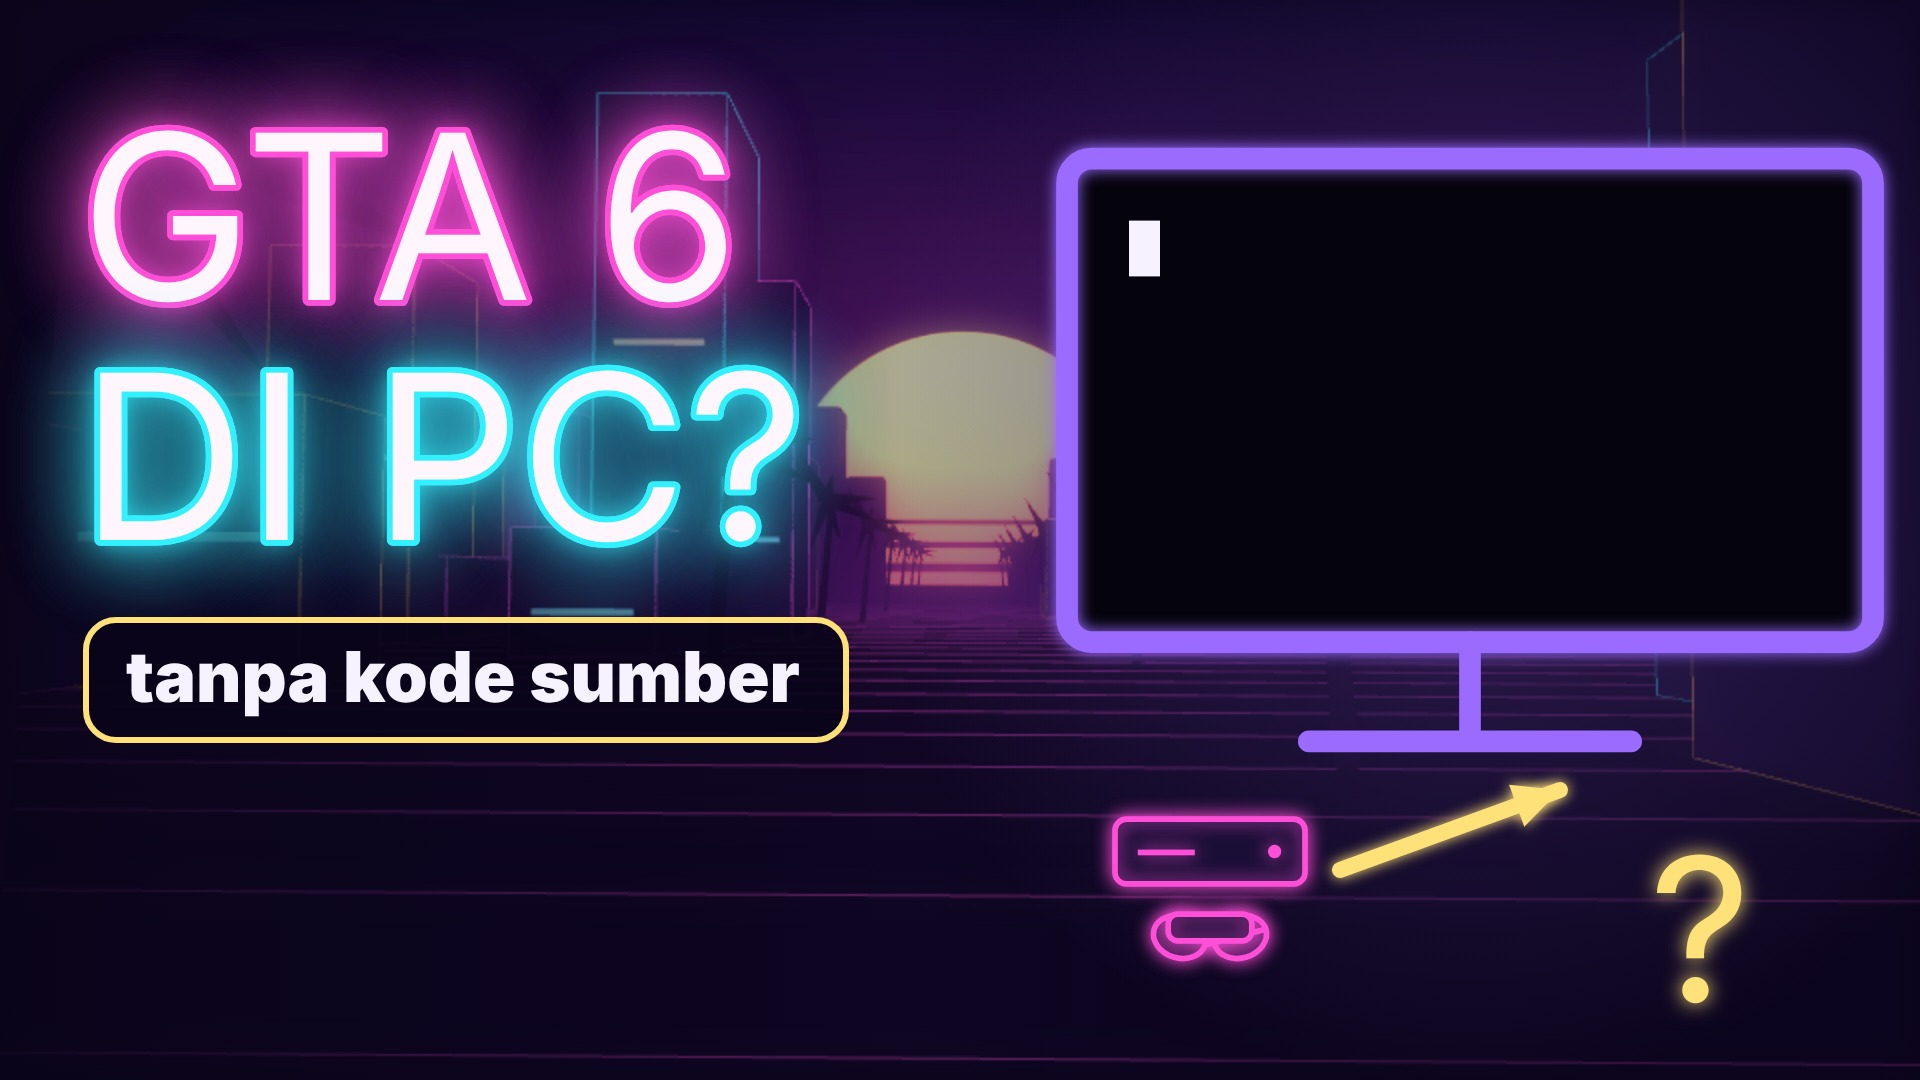
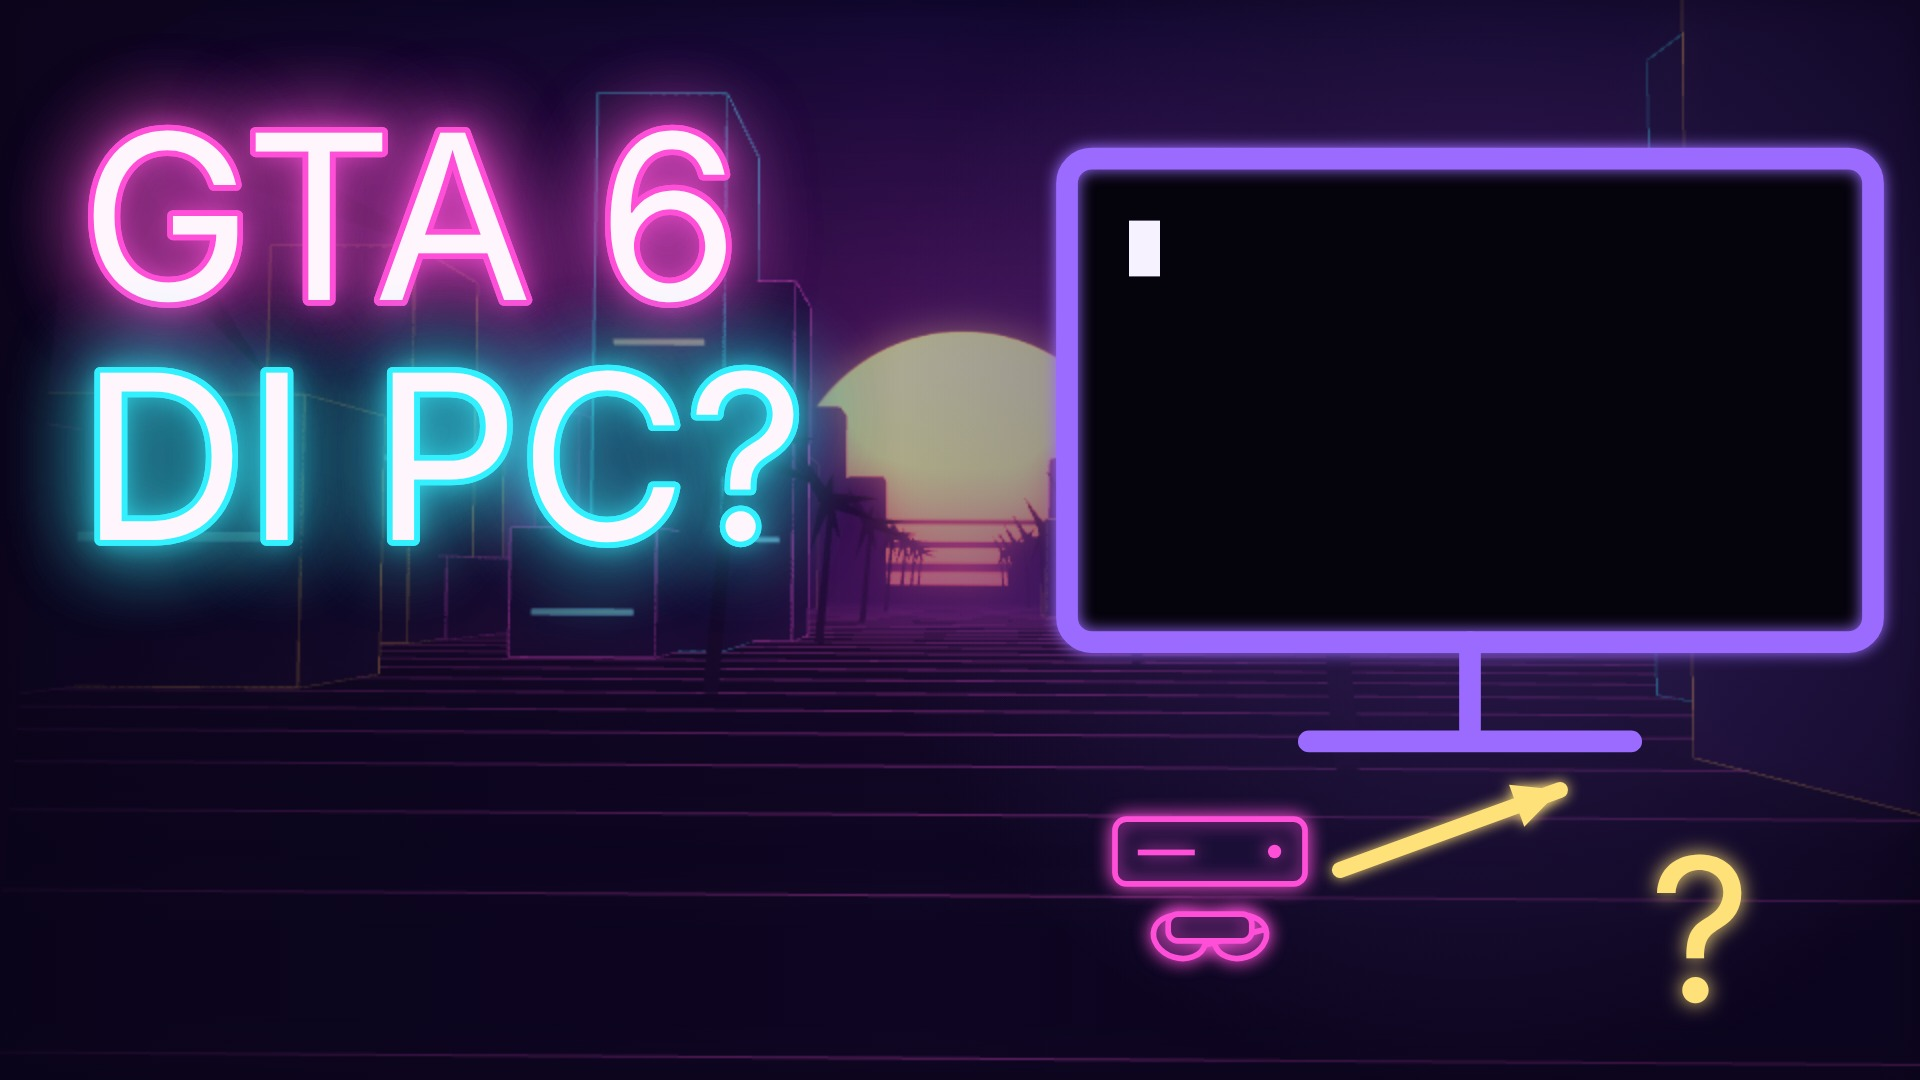
Thumbnail D10: hapus tulisan "tanpa kode sumber" (permintaan Bu Dewi)
Claude-Session: https://claude.ai/code/session_012oyg5HyNNpeLStJTL4LRQy

Changed region(s): [[0.0312, 0.55, 0.4688, 0.7028]]

diff --git a/episodes/dok/D10/thumbnail.js b/episodes/dok/D10/thumbnail.js
@@ -4,8 +4,6 @@ K.kota3d.draw(ctx, t, { z: 60, dim: 0.18, sway: 0.6, bloom: 0.9 });
 const g = ctx.createLinearGradient(0, 0, 1150, 0); g.addColorStop(0, "rgba(10,4,26,0.9)"); g.addColorStop(1, "rgba(10,4,26,0)"); ctx.fillStyle = g; ctx.fillRect(0, 0, 1150, 1080);
 U.neon(ctx, "GTA 6", 80, 300, 230, N.pink, {});
 U.neon(ctx, "DI PC?", 80, 540, 230, N.cyan, {});
-ctx.fillStyle = "rgba(10,4,26,0.92)"; H.rr(ctx, 86, 620, 760, 120, 30); ctx.fill(); ctx.strokeStyle = N.gold; ctx.lineWidth = 6; ctx.stroke();
-D.txt(ctx, "tanpa kode sumber", 126, 702, 76, { weight: 900, color: "#F6F2FF", fit: 690 });
 // kanan: monitor hitam besar dengan kursor, konsol kecil dan panah
 const g2 = ctx.createLinearGradient(900, 0, 1300, 0); g2.addColorStop(0, "rgba(10,4,26,0)"); g2.addColorStop(1, "rgba(10,4,26,0.55)"); ctx.fillStyle = g2; ctx.fillRect(900, 0, 1020, 1080);
 D.glow(ctx, 1470, 470, 620, N.violet, 0.4);
